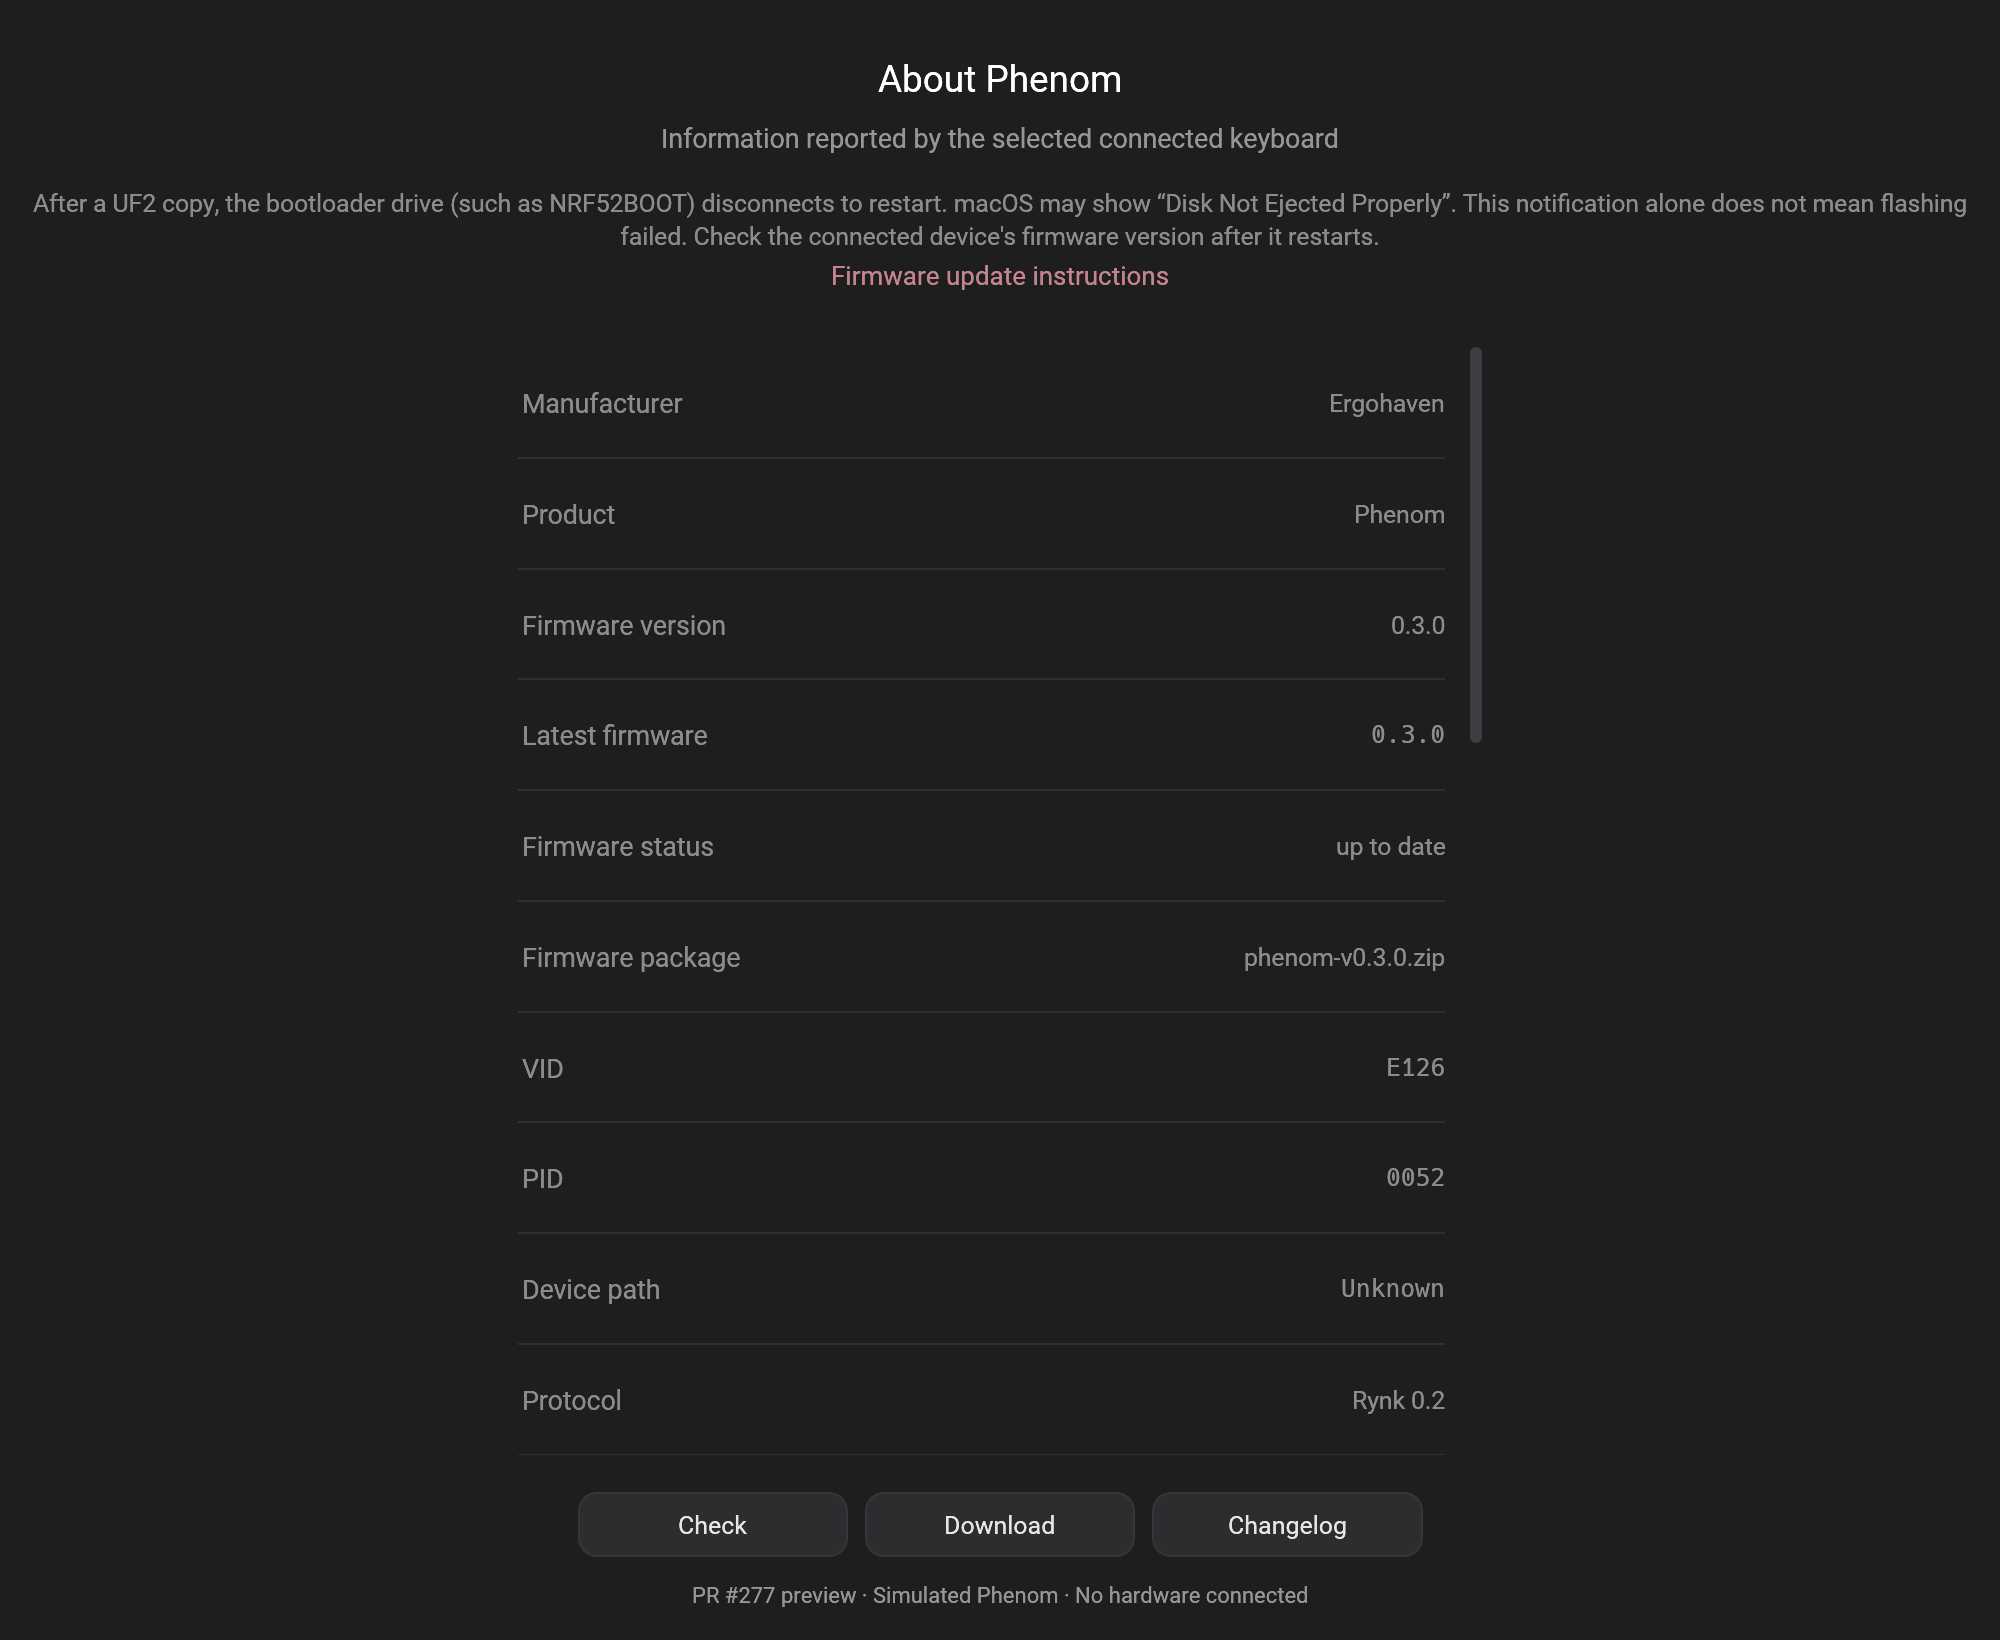
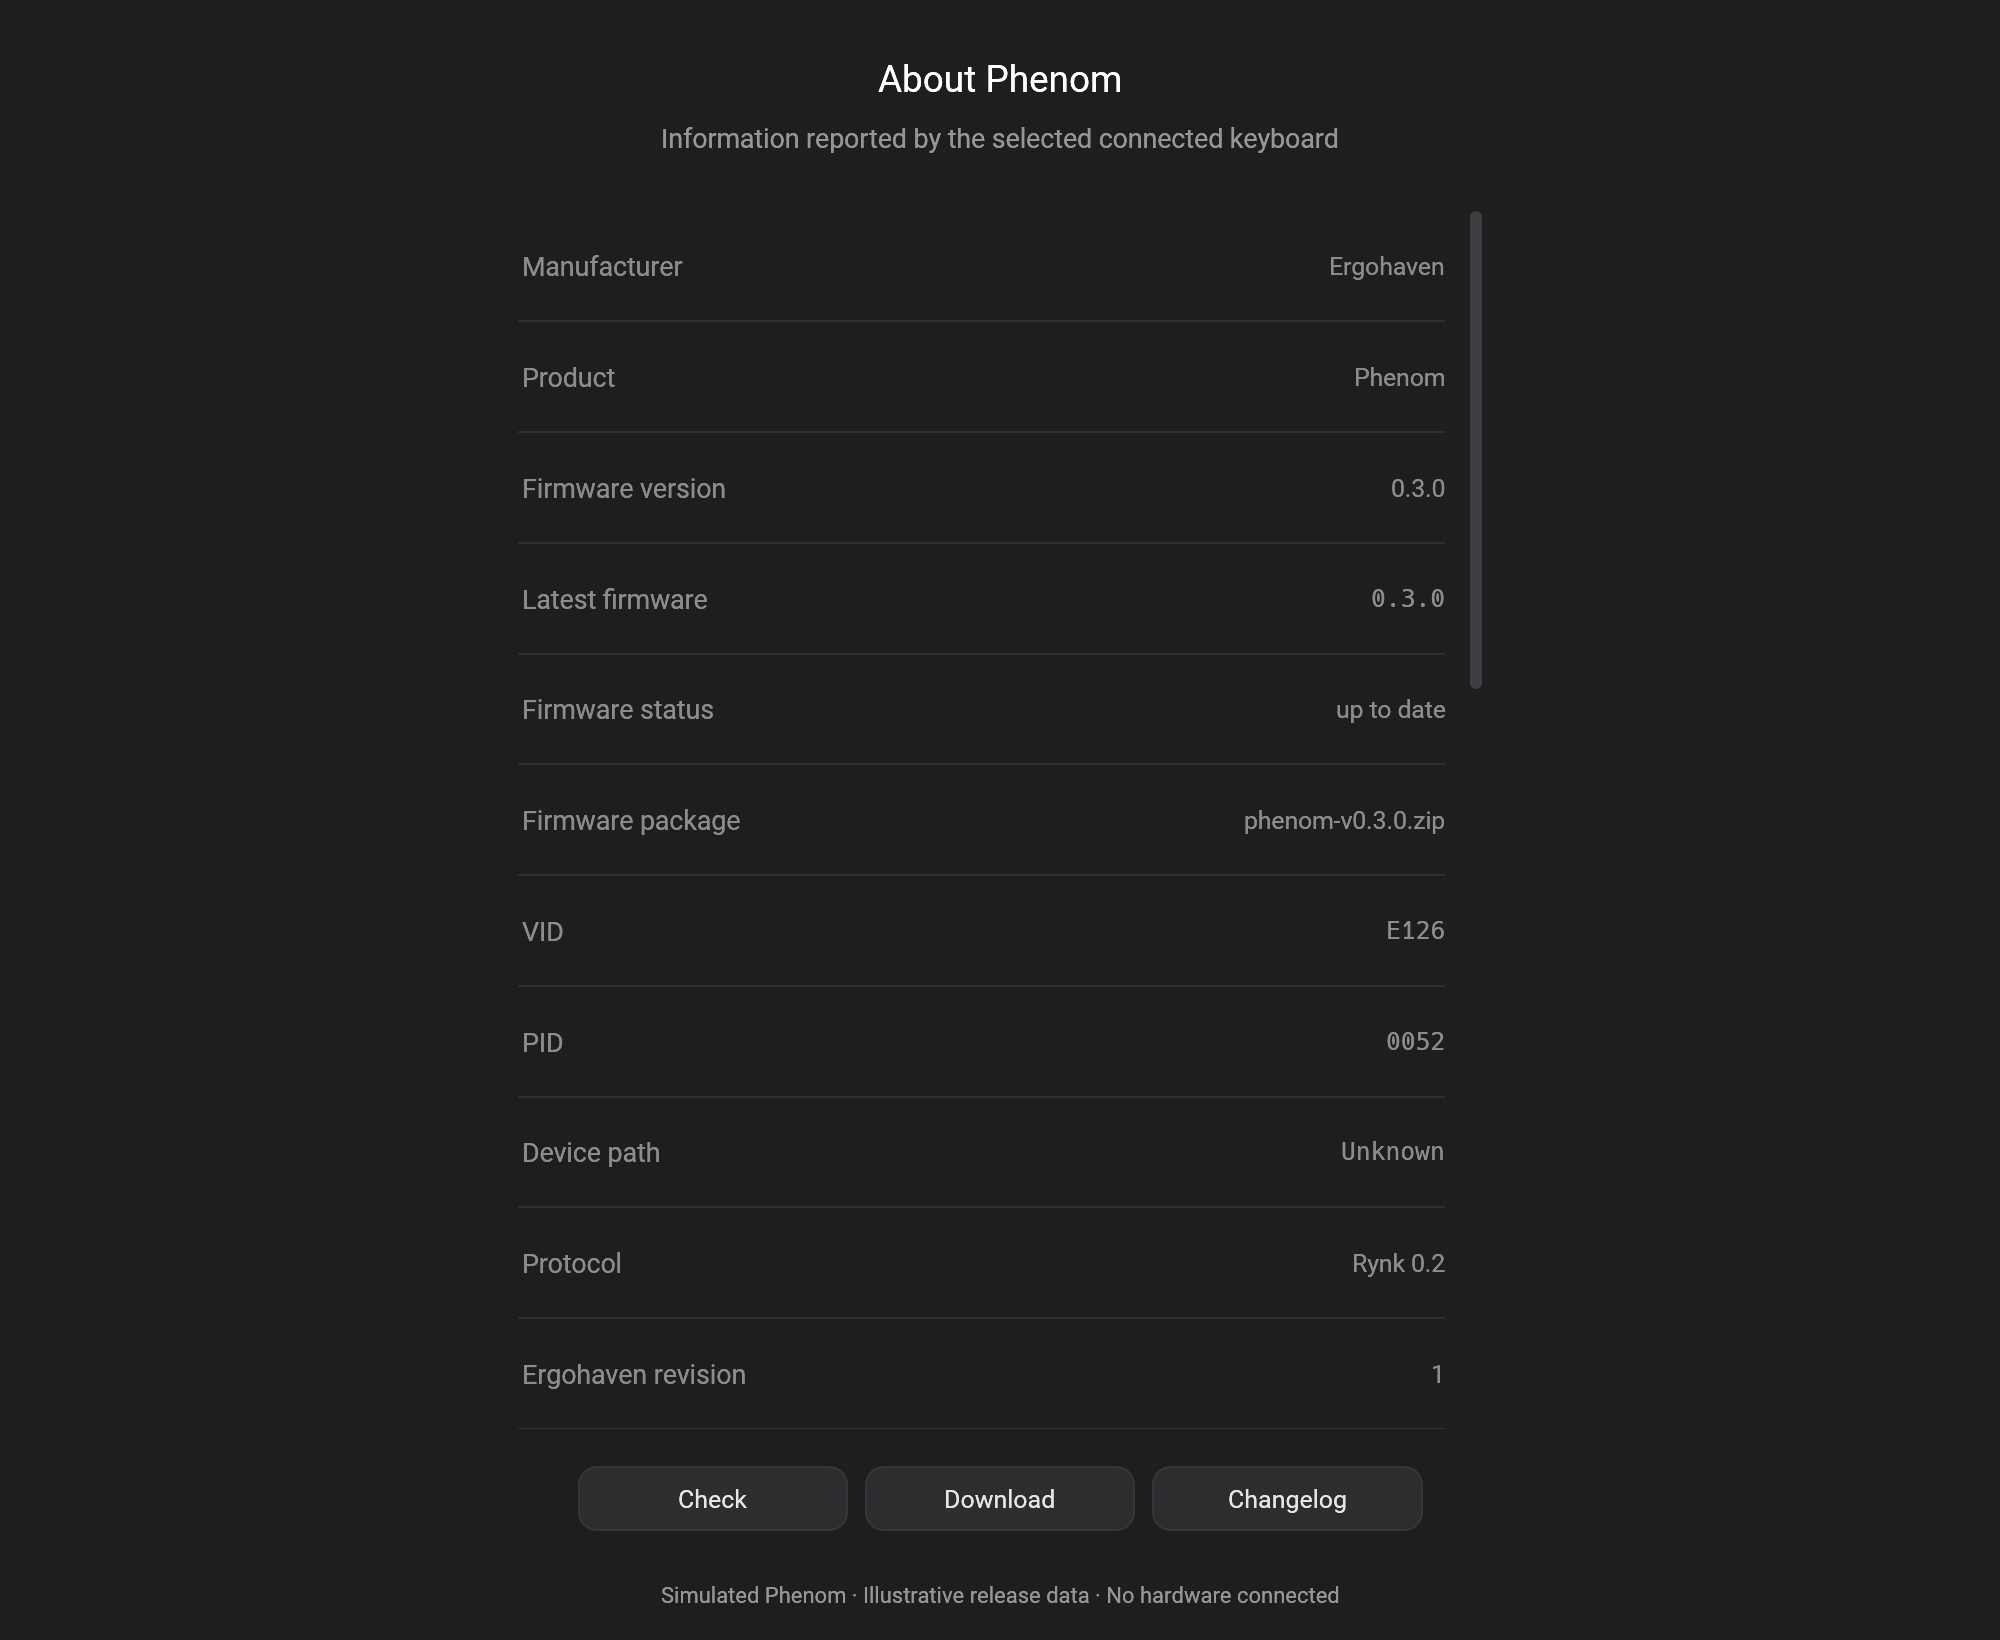
docs: refresh Phenom previews for contextual UF2 guidance

diff --git a/README.md b/README.md
@@ -1,12 +1,6 @@
-# PR #277 UI screenshots
+# Phenom UI previews
 
-Native macOS About device page from Entropy PR #277, source head d9b0d3004d241fd9f12cb2f6d745c4633b80a536.
+- About page: PR #277 at b485e3a4ade54ee902e9baa004d4892874907332. No UF2 notice in the normal device view.
+- Ready-to-flash dialog: PR #275 at 3b5fae8b4020d7058c8d057e6b42930856bb1934. UF2 notice below transfer controls, after download/preparation. The existing dialog was scrolled to show the notice and instructions link.
 
-The preview uses simulated Phenom data with native RMK/Rynk firmware 0.3.0 and illustrative release metadata. No keyboard was connected, queried, reset, or flashed.
-
-The preview calls the production About device renderer with the production fonts and theme, using the inert application constructor. A temporary entry point requests eframe framebuffer PNG captures after layout settles. Temporary source changes were restored afterward.
-
-- phenom-about-en.png: English
-- phenom-about-ru.png: Russian
-
-These images verify presentation only, not device communication or live release discovery.
+All screenshots render the real macOS UI with production fonts and theme, at a fixed 1000 x 820 point window. Phenom identity, firmware versions and release metadata are simulated. The 0.3.1 preview is illustrative, not a release-availability claim. No keyboard was connected, queried, reset, or flashed. Temporary native screenshot entry points were restored after capture.
